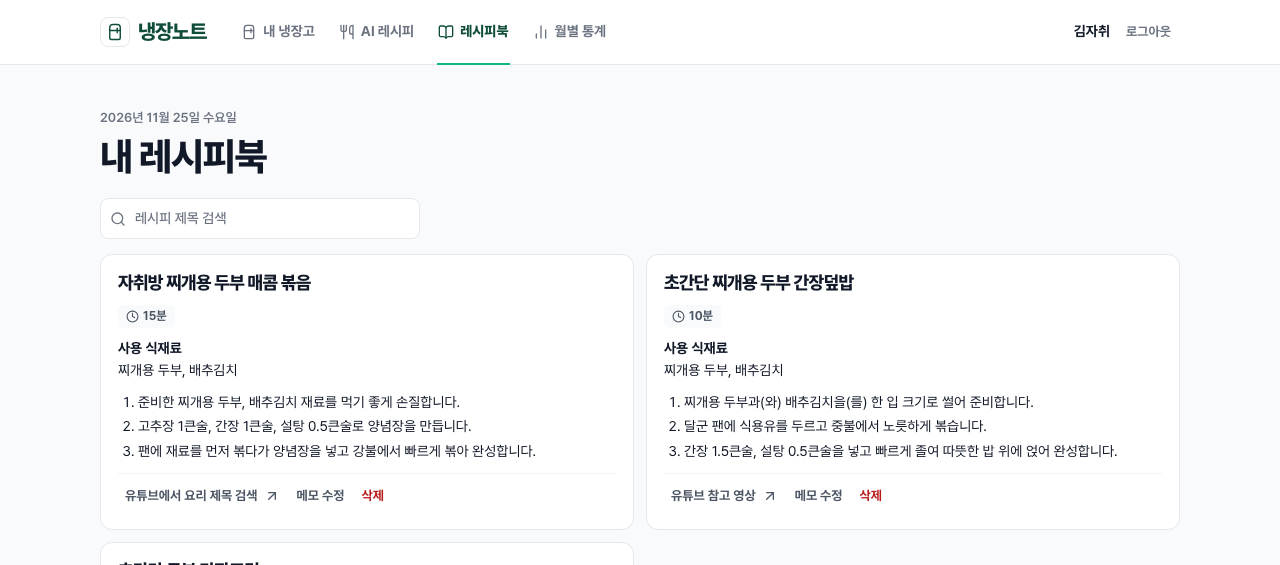
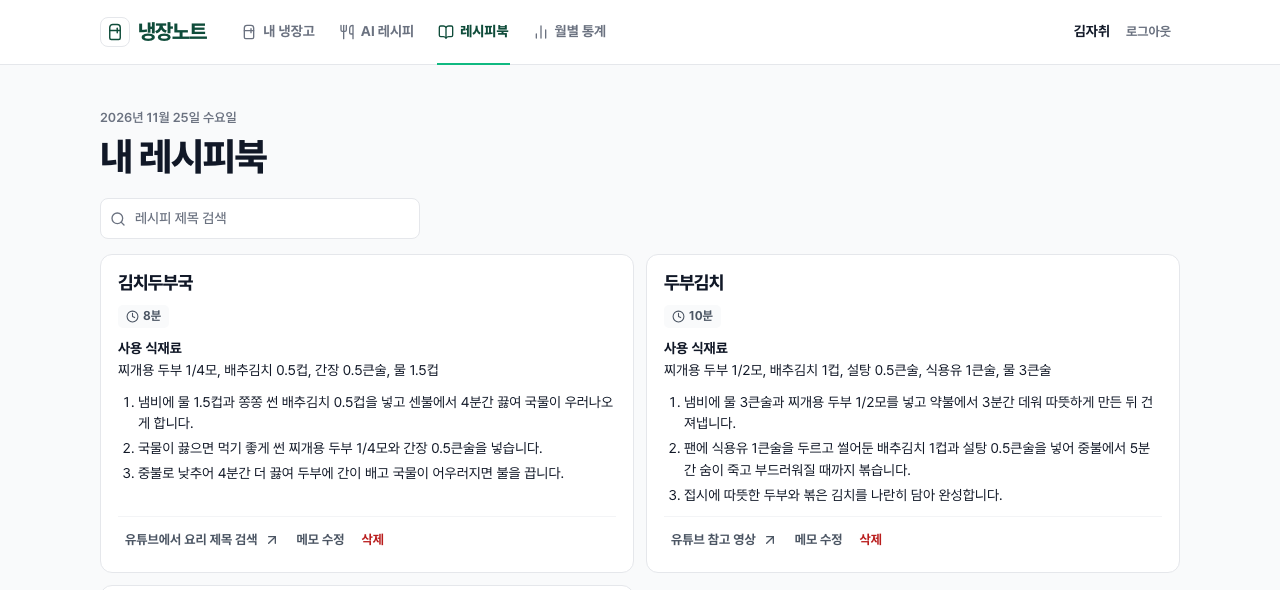
Match fallback recipes to available ingredients and refresh recipe examples

diff --git a/src/utils/fallbackRecipes.ts b/src/utils/fallbackRecipes.ts
@@ -1,0 +1,73 @@
+// 기본 레시피는 필요한 주재료가 모두 있을 때만 사용한다.
+// 등록명에서 수량·보관 표기를 정리하되 '두부과자'를 '두부'로 인식하지 않는다.
+interface PantryRecipe {
+  title: string;
+  ingredients: RegExp[];
+  seasonings: string[];
+  minutes: number;
+  steps: string[];
+}
+
+const tofu = /^(찌개용|부침용)?두부$/;
+const kimchi = /^(배추|포기)?김치$/;
+const egg = /^(달걀|계란)$/;
+const onion = /^양파$/;
+const greenOnion = /^(대파|쪽파)$/;
+const zucchini = /^애호박$/;
+const pasta = /^(스파게티면?|파스타면)$/;
+const garlic = /^(다진)?마늘$/;
+
+const cookbook: PantryRecipe[] = [
+  { title: '볶은 김치를 곁들인 두부', ingredients: [tofu, kimchi], seasonings: ['식용유'], minutes: 12,
+    steps: ['두부는 도톰하게 썰어 끓는 물에 2분 데친 뒤 물기를 뺍니다.', '김치를 잘게 썰어 기름 두른 팬에서 중불로 4분 볶습니다.', '따뜻한 두부를 접시에 펼치고 볶은 김치를 얹습니다.'] },
+  { title: '두부 김치국', ingredients: [tofu, kimchi], seasonings: ['간장'], minutes: 15,
+    steps: ['냄비에 잘게 썬 김치 반 컵과 물 두 컵을 넣고 7분 끓입니다.', '두부 반 모를 깍둑썰기해 넣고 4분 더 끓입니다.', '국물을 맛보고 싱거우면 간장을 조금 넣습니다.'] },
+  { title: '두부 달걀부침', ingredients: [tofu, egg], seasonings: ['소금', '식용유'], minutes: 12,
+    steps: ['두부를 얇게 썰어 물기를 닦고 소금을 살짝 뿌립니다.', '달걀을 풀어 두부에 입힙니다.', '기름 두른 팬에 올려 달걀옷이 익고 양면이 노릇해질 때까지 부칩니다.'] },
+  { title: '파 달걀국', ingredients: [greenOnion, egg], seasonings: ['소금'], minutes: 8,
+    steps: ['파를 잘게 썰고 달걀 한 개를 풀어 둡니다.', '물 한 컵을 끓여 소금으로 간하고 파를 넣습니다.', '달걀물을 가늘게 둘러 넣고 달걀이 익을 때까지 끓입니다.'] },
+  { title: '마늘 오일 스파게티', ingredients: [pasta, garlic], seasonings: ['식용유', '소금'], minutes: 15,
+    steps: ['끓는 소금물에 면을 포장지에 표시된 시간만큼 삶고 면수를 조금 남깁니다.', '팬에 기름과 잘게 다진 마늘을 넣어 약불에서 향을 냅니다.', '면과 면수 두 숟갈을 넣고 기름이 면에 고루 묻도록 섞습니다.'] },
+  { title: '양파 스파게티', ingredients: [pasta, onion], seasonings: ['식용유', '소금'], minutes: 15,
+    steps: ['면을 포장지에 표시된 시간만큼 삶고 면수를 조금 남깁니다.', '양파 반 개를 가늘게 채 썰어 기름 두른 팬에 부드러워질 때까지 볶습니다.', '면과 면수를 조금 넣고 섞은 뒤 소금으로 간합니다.'] },
+  { title: '오일 스파게티', ingredients: [pasta], seasonings: ['소금', '식용유'], minutes: 15,
+    steps: ['면을 끓는 소금물에 삶아 건지고 면수를 반 컵 남깁니다.', '팬에 면과 식용유 한 숟갈, 면수 두 숟갈을 넣습니다.', '중불에서 잘 섞어 면에 윤기가 돌면 간을 맞춥니다.'] },
+  { title: '바삭한 스파게티전', ingredients: [pasta], seasonings: ['식용유', '소금'], minutes: 20,
+    steps: ['면을 푹 삶아 짧게 자르고 소금을 조금 뿌립니다.', '기름 두른 작은 팬에 면을 얇게 펼쳐 주걱으로 누릅니다.', '중약불로 바닥을 바삭하게 익힌 뒤 뒤집어 반대쪽도 굽습니다.'] },
+  { title: '두부 소금구이', ingredients: [tofu], seasonings: ['소금', '식용유'], minutes: 10,
+    steps: ['두부를 손가락 두께로 썰어 물기를 닦습니다.', '기름 두른 팬에서 중불로 앞뒤를 노릇하게 굽습니다.', '접시에 옮겨 소금을 가볍게 뿌립니다.'] },
+  { title: '으깬 두부조림', ingredients: [tofu], seasonings: ['간장', '설탕'], minutes: 10,
+    steps: ['두부 반 모를 포크로 굵게 으깹니다.', '팬에 두부와 물 세 숟갈, 간장 한 작은술, 설탕 한 꼬집을 넣습니다.', '중약불에서 가볍게 저으며 국물이 자작해질 때까지 졸입니다.'] },
+  { title: '달걀찜', ingredients: [egg], seasonings: ['소금'], minutes: 12,
+    steps: ['달걀 두 개에 물 반 컵과 소금 한 꼬집을 넣어 풉니다.', '작은 냄비에 담고 약불에서 바닥을 저으며 익힙니다.', '몽글몽글해지면 뚜껑을 덮고 약불에서 가운데까지 익힙니다.'] },
+  { title: '달걀말이', ingredients: [egg], seasonings: ['소금', '식용유'], minutes: 10,
+    steps: ['달걀 두 개를 소금 한 꼬집과 섞습니다.', '약불로 달군 팬에 기름을 얇게 바르고 달걀물을 반만 붓습니다.', '가장자리부터 말아 한쪽으로 밀고 남은 달걀물을 부어 다시 말아 속까지 익힙니다.'] },
+  { title: '애호박 반달구이', ingredients: [zucchini], seasonings: ['소금', '식용유'], minutes: 10,
+    steps: ['애호박을 반달 모양으로 얇게 썹니다.', '기름 두른 팬에 겹치지 않게 펴고 양면을 노릇하게 굽습니다.', '소금을 살짝 뿌려 마무리합니다.'] },
+  { title: '애호박 맑은국', ingredients: [zucchini], seasonings: ['간장', '소금'], minutes: 12,
+    steps: ['애호박을 가늘게 채 썹니다.', '물 두 컵이 끓으면 애호박과 간장 한 작은술을 넣습니다.', '호박이 부드러워지면 소금으로 간을 맞춥니다.'] },
+];
+
+export function findFallbackRecipes(names: string[]) {
+  const ingredients = names.map(name => ({
+    name,
+    key: name.replace(/\s+/g, '').replace(/^냉동/, '').replace(/\d+(?:\.\d+)?(?:kg|ml|g|구|개|모|봉|단)$/i, ''),
+  }));
+
+  const matches = cookbook.flatMap(recipe => {
+    const used: string[] = [];
+    for (const pattern of recipe.ingredients) {
+      const item = ingredients.find(ingredient => pattern.test(ingredient.key));
+      if (!item) return [];
+      used.push(item.name);
+    }
+    return [{ recipe, used, priority: Math.min(...used.map(name => names.indexOf(name))) }];
+  });
+
+  // 여러 재료를 함께 쓰는 요리, 그다음 선택 순서(자동 선택 시 소비기한 순)를 우선한다.
+  return matches.sort((a, b) => b.used.length - a.used.length || a.priority - b.priority)
+    .slice(0, 2).map(({ recipe, used }) => ({
+      title: recipe.title, cookingTime: `${recipe.minutes}분`,
+      usedIngredients: [...used, ...recipe.seasonings], steps: recipe.steps,
+    }));
+}

diff --git a/src/controllers/recipeController.ts b/src/controllers/recipeController.ts
@@ -5,6 +5,7 @@ import { config } from '../config.js';
 import * as recipeStore from '../stores/recipeStore.js';
 import * as ingredientStore from '../stores/ingredientStore.js';
 import { parseId } from '../utils/parseId.js';
+import { findFallbackRecipes } from '../utils/fallbackRecipes.js';
 import { calculateDday } from '../utils/dday.js';
 
 interface IdParams {
@@ -69,7 +70,14 @@ async function generateAiRecipes(targetNames: string[]): Promise<GeneratedRecipe
   const ai = new GoogleGenAI({ apiKey: config.GEMINI_API_KEY });
   const response = await ai.models.generateContent({
     model: 'gemini-3.5-flash-lite',
-    contents: `보유 식재료: ${targetNames.join(', ')}. 이 식재료들과 기본 자취방 양념(간장, 설탕, 소금, 식용유, 고추장 등)만 활용해서 15분 이내에 만들 수 있는 현실적인 자취 요리 레시피 2개를 추천해줘.`,
+    contents: [
+      `보유 식재료 목록: ${JSON.stringify(targetNames)}`,
+      '한국어로 1인분 요리 두 가지를 제안하세요. 두 요리는 주된 조리법과 완성된 형태가 달라야 합니다.',
+      '각 요리에 어울리는 재료만 고르세요. 모든 재료를 한 접시에 넣을 필요는 없습니다.',
+      '추가로 쓸 수 있는 것은 물, 소금, 간장, 설탕, 식용유, 고추장뿐입니다. 밥, 면, 달걀, 육수 등은 보유 목록에 있을 때만 쓰세요.',
+      '제목은 통상적인 요리 이름으로 쓰고, usedIngredients에는 실제 쓰는 재료와 양념을, steps에는 분량과 익힘 기준을 적으세요.',
+      '짧게 조리할 수 있는 메뉴를 우선하되 실제 익히는 데 필요한 시간을 cookingTime에 적으세요.',
+    ].join('\n'),
     config: {
       httpOptions: { timeout: 15_000, retryOptions: { attempts: 1 } },
       responseMimeType: 'application/json',
@@ -161,30 +169,13 @@ export const recommend: RequestHandler<{}, unknown, RecommendBody | undefined> =
 
       const source = recipes.length > 0 ? 'ai' : 'fallback';
       if (source === 'fallback') {
-        const mainItem = targetNames[0] ?? '식재료';
-        const subItem = targetNames[1] ?? '대파';
-        recipes = [
-          {
-            title: `초간단 ${mainItem} 간장덮밥`,
-            cookingTime: '10분',
-            usedIngredients: targetNames,
-            steps: [
-              `${mainItem}과(와) ${subItem}을(를) 한 입 크기로 썰어 준비합니다.`,
-              '달군 팬에 식용유를 두르고 중불에서 노릇하게 볶습니다.',
-              '간장 1.5큰술, 설탕 0.5큰술을 넣고 빠르게 졸여 따뜻한 밥 위에 얹어 완성합니다.',
-            ],
-          },
-          {
-            title: `자취방 ${mainItem} 매콤 볶음`,
-            cookingTime: '15분',
-            usedIngredients: targetNames,
-            steps: [
-              `준비한 ${targetNames.join(', ')} 재료를 먹기 좋게 손질합니다.`,
-              '고추장 1큰술, 간장 1큰술, 설탕 0.5큰술로 양념장을 만듭니다.',
-              '팬에 재료를 먼저 볶다가 양념장을 넣고 강불에서 빠르게 볶아 완성합니다.',
-            ],
-          },
-        ];
+        recipes = findFallbackRecipes(targetNames);
+        if (recipes.length === 0) {
+          res.status(503).json({
+            message: '현재 AI 추천을 이용할 수 없고 선택한 재료에 맞는 기본 레시피도 없어요. 다른 재료를 선택하거나 잠시 후 다시 시도해 주세요.',
+          });
+          return;
+        }
       }
 
       const videoCandidates = await Promise.all(

diff --git a/public/app.js b/public/app.js
@@ -232,6 +232,8 @@ handle($('#generate'),'click',async () => {
   const {signal} = session;
   const status = $('#recommend-status');
   status.className = 'muted';
+  suggestions = [];
+  $('#suggestions').replaceChildren();
   status.textContent = '식재료에 맞는 레시피를 준비하고 있어요.';
   recommending = true;
   renderChoices();
@@ -244,8 +246,8 @@ handle($('#generate'),'click',async () => {
     suggestions = result.recommendations;
     renderSuggestions();
     status.textContent = result.source === 'fallback'
-      ? `기본 추천 레시피 ${suggestions.length}개를 표시했어요.`
-      : `맞춤 레시피 ${suggestions.length}개를 찾았어요.`;
+      ? `AI 추천을 이용할 수 없어 선택한 재료에 맞는 기본 레시피 ${suggestions.length}개를 골랐어요.`
+      : `Gemini가 재료에 맞춰 레시피 ${suggestions.length}개를 만들었어요.`;
   } catch (err) {
     if (signal.aborted) throw err;
     status.className = 'error';

diff --git a/README.md b/README.md
@@ -34,7 +34,7 @@ cp .env.example .env
 | --- | --- |
 | `DATABASE_URL` | 사용할 PostgreSQL 연결 문자열. 처음 체험할 때는 초기화할 수 있는 개발용 DB를 지정합니다. |
 | `SESSION_SECRET` | 로그인 세션 쿠키 서명에 사용할 임의의 긴 문자열 |
-| `GEMINI_API_KEY` | Gemini 레시피 생성을 사용할 때 입력합니다. 비워 두면 재료를 활용한 기본 레시피 두 개로 시연할 수 있습니다. |
+| `GEMINI_API_KEY` | Gemini 레시피 생성을 사용할 때 입력합니다. 키가 없거나 요청에 실패하면 선택한 재료로 만들 수 있는 기본 레시피를 찾습니다. |
 | `PORT` | 서버 포트. 기본값은 `3000`입니다. |
 
 ### 3. Prisma Client 생성 및 서버 시작
@@ -72,14 +72,14 @@ npm run dev
 | 화면 | 체험 계정으로 해 볼 일 |
 | --- | --- |
 | 내 냉장고 | 냉장실에서 `찌개용 두부`를 검색해 D-Day, 소비기한, 가격과 메모를 확인합니다. 만료된 `서울우유 500ml`에서는 소비완료 버튼이 비활성화됩니다. |
-| AI 레시피 | 두부와 대파를 골라 두 가지 요리를 추천받습니다. 각 카드에서 조리 시간, 사용 재료, 단계별 조리법과 참고 영상을 확인합니다. |
+| AI 레시피 | 찌개용 두부와 배추김치를 고릅니다. 아래 시연에서는 Gemini가 **두부김치**와 **김치두부국**을 제안했습니다. 각 카드에서 조리 시간, 사용 재료, 단계별 조리법과 참고 영상을 확인합니다. |
 | 레시피북 | 마음에 드는 추천을 저장하고 제목으로 다시 찾습니다. 개인 메모에 다음에 바꿔 볼 양념이나 조리 시간을 적을 수 있습니다. |
 | 월별 통계 | **지난달**을 누르면 미리 넣어 둔 폐기 기록 5건의 합계 **21,000원**을 확인할 수 있습니다. 폐기 금액이 가장 컸던 재료는 **손질 오징어(6,900원)**입니다. |
 
 <details>
 <summary>AI 레시피 추천 화면</summary>
 
-![두 재료로 만든 기본 추천 레시피 두 가지와 각 요리의 조리 순서](docs/screenshots/recipe-recommendation.png)
+![찌개용 두부와 배추김치로 Gemini가 생성한 두부김치와 김치두부국](docs/screenshots/recipe-recommendation.png)
 
 </details>
 
@@ -101,7 +101,7 @@ npm run dev
 
 **소비기한과 처리 상태.** 보관 중(`ACTIVE`)이어도 소비기한이 지나면 만료(`EXPIRED`)입니다. 서버는 날짜를 기준으로 당일부터 3일 남은 재료를 임박으로, 4일 이상 남은 재료를 안전으로 분류합니다. 만료된 재료의 소비완료 요청은 서버에서도 `400`으로 거부하며, 폐기는 기록할 수 있습니다. [D-Day 계산](src/utils/dday.ts) · [상태 변경 처리](src/controllers/ingredientController.ts)
 
-**추천 재료와 영상 선택.** 서버는 사용자가 보관 중인 재료에서 만료 항목을 먼저 제외합니다. 재료를 고르지 않으면 소비기한이 가까운 순서로 최대 5개를 사용합니다. Gemini가 만든 요리 두 개의 제목으로 유튜브를 각각 검색하고, 같은 영상 ID는 한 번만 배정합니다. 영상 검색이 지연되면 해당 제목의 검색 결과를 열 수 있습니다. 추천 응답의 `source` 값으로 Gemini 생성(`ai`)과 기본 추천(`fallback`)을 구분할 수 있습니다. [추천 컨트롤러](src/controllers/recipeController.ts)
+**추천 재료와 영상 선택.** 서버는 사용자가 보관 중인 재료에서 만료 항목을 먼저 제외합니다. 재료를 고르지 않으면 소비기한이 가까운 순서로 최대 5개를 사용합니다. Gemini가 만든 요리 두 개의 제목으로 유튜브를 각각 검색하고, 같은 영상 ID는 한 번만 배정합니다. 영상 검색이 지연되면 해당 제목의 검색 결과를 열 수 있습니다. 추천 응답의 `source`와 화면 안내에서 Gemini 생성(`ai`)과 기본 추천(`fallback`)을 구분할 수 있습니다. Gemini를 이용할 수 없을 때는 필요한 주재료가 모두 있는 기본 레시피를 최대 두 개 고릅니다. 일치하는 요리가 없으면 재료 변경 또는 재시도를 안내합니다. [추천 컨트롤러](src/controllers/recipeController.ts)
 
 **월별 통계의 기준.** 구매일 또는 소비기한이 선택한 달에 들어오는 재료를 조회 시점의 상태로 집계합니다. 두 날짜가 서로 다른 달이면 양쪽 월에 포함될 수 있습니다. 소비율·폐기율은 **건수** 기준이고, 도넛 차트는 **금액** 기준입니다. 화면에서는 전월 대비 총지출과 폐기액, 폐기 금액 상위 5개, 구역별 지출과 폐기 건수를 함께 보여줍니다. 폐기액은 아메리카노 한 잔(4,500원) 값으로도 환산합니다. [서버 집계](src/controllers/ingredientController.ts) · [대시보드 렌더링](public/app.js)
 
